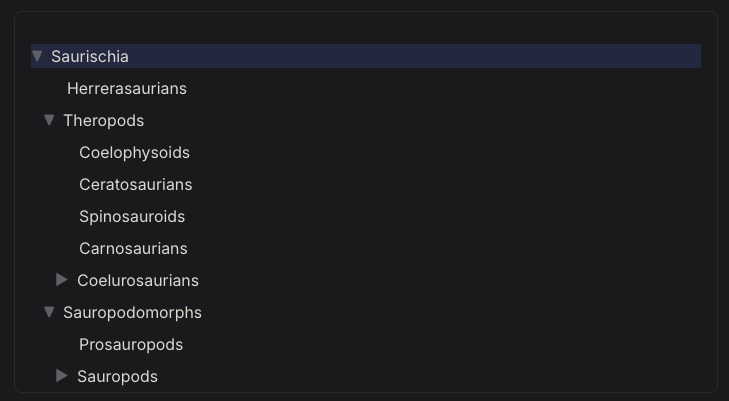
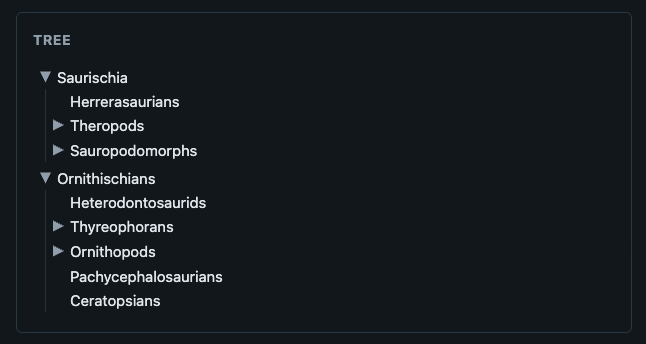
Vertical tree lines (#98)
* Vertical tree lines

* Align correctly for bigger font sizes

* Use --tree-element-toggler-size

* Fix margin between toggler and node text

* Fix test

* Update test screenshots

* Update screenshot

* Add link to example

diff --git a/tree_element.css b/tree_element.css
@@ -2,6 +2,7 @@
   Colors. Override them on :root or on an element around the tree, for example
   for a dark theme. :where keeps the specificity at 0, so any rule wins.
   --tree-element-selected-color defaults to --tree-element-title-color.
+  Set --tree-element-line-color to transparent to hide the tree lines.
 */
 :where(:root) {
   --tree-element-title-color: #1c4257;
@@ -12,6 +13,19 @@
   --tree-element-drop-hint-color: #00f;
   --tree-element-dragging-color: #fff;
   --tree-element-dragging-background: #000;
+  --tree-element-line-color: #d5dbe1;
+}
+
+/*
+  The width of the toggler. The indentation and the tree lines follow it, so
+  the line stays under the center of the toggler. 1.5em is 24px at a 16px
+  font: above that the toggler grows with the font, so the space around the
+  0.8em icon, which separates it from the title, grows along. Set it to the
+  width of a custom icon that is wider. It is resolved where it is used, so em
+  is the font size of the tree.
+*/
+:where(:root) {
+  --tree-element-toggler-size: max(24px, 1.5em);
 }
 
 ul.tree-element {
@@ -27,11 +41,14 @@ ul.tree-element.tree-element-dnd {
 
 ul.tree-element ul.tree-element-common {
     list-style: none outside;
-    margin-left: 12px;
+    margin-left: calc(var(--tree-element-toggler-size) / 2);
     margin-right: 0;
     margin-bottom: 0;
     padding: 0;
     display: block;
+    /* The line down from the toggler of the folder: the indent is half the
+       width of the toggler, so the line is under its center. */
+    border-left: 1px solid var(--tree-element-line-color);
   }
 
 ul.tree-element li.tree-element-closed > ul.tree-element-common {
@@ -52,12 +69,16 @@ ul.tree-element .tree-element-toggler {
     align-items: center;
     justify-content: center;
     box-sizing: border-box;
-    min-width: 24px;
+    min-width: var(--tree-element-toggler-size);
     min-height: 24px;
     border-bottom: none;
     color: var(--tree-element-toggler-color);
     text-decoration: none;
     vertical-align: middle;
+    /* The line under the toggler is 1px wide, so its center is half a pixel
+       after the center of the toggler. Move the toggler along.
+       Margin or padding would be rounded to a whole pixel; translate isn't. */
+    translate: 0.5px;
   }
 
 ul.tree-element .tree-element-toggler:hover {
@@ -105,7 +126,7 @@ ul.tree-element li.tree-element-common:focus-visible
 /* Line up with the titles of folders, after the toggler */
 
 ul.tree-element .tree-element-title-button-left {
-    margin-left: 24px;
+    margin-left: var(--tree-element-toggler-size);
   }
 
 ul.tree-element .tree-element-title-button-left.tree-element-title-folder {
@@ -186,12 +207,18 @@ ul.tree-element.tree-element-rtl {
 
 ul.tree-element.tree-element-rtl ul.tree-element-common {
     margin-left: 0;
-    margin-right: 12px;
+    margin-right: calc(var(--tree-element-toggler-size) / 2);
+    border-left: none;
+    border-right: 1px solid var(--tree-element-line-color);
+  }
+
+ul.tree-element.tree-element-rtl .tree-element-toggler {
+    translate: -0.5px;
   }
 
 ul.tree-element.tree-element-rtl .tree-element-title {
     margin-left: 0;
-    margin-right: 24px;
+    margin-right: var(--tree-element-toggler-size);
   }
 
 ul.tree-element.tree-element-rtl .tree-element-title.tree-element-title-folder {

diff --git a/test/css/defaultColors.test.ts b/test/css/defaultColors.test.ts
@@ -10,17 +10,24 @@ const css = fs.readFileSync(
   "utf8",
 );
 
+// The defaults of all custom properties. The colors and the toggler size are
+// in separate :where(:root) blocks.
 const getDefaultColors = (): Map<string, string> => {
-  const block = /:where\(:root\) \{([^}]*)\}/.exec(css)?.[1];
+  const blocks = Array.from(
+    css.matchAll(/:where\(:root\) \{([^}]*)\}/g),
+    ([, block]) => block as string,
+  );
 
-  if (!block) {
+  if (blocks.length === 0) {
     throw new Error("No :where(:root) block in the stylesheet");
   }
 
   return new Map(
-    Array.from(
-      block.matchAll(/--tree-element-([\w-]+):\s*([^;]+);/g),
-      ([, name, value]) => [name as string, (value as string).trim()],
+    blocks.flatMap((block) =>
+      Array.from(
+        block.matchAll(/--tree-element-([\w-]+):\s*([^;]+);/g),
+        ([, name, value]) => [name as string, (value as string).trim()],
+      ),
     ),
   );
 };

diff --git a/docs/guide/styling.md b/docs/guide/styling.md
@@ -143,6 +143,10 @@ change one tree:
 | `--tree-element-drop-hint-color`      | `#00f`                              | The drop hints while dragging.              |
 | `--tree-element-dragging-color`       | `#fff`                              | The text of the node that is dragged.       |
 | `--tree-element-dragging-background`  | `#000`                              | The background of the node that is dragged. |
+| `--tree-element-line-color`           | `#d5dbe1`                           | The lines from a folder to its children.    |
+
+The tree lines are decoration, so they are light. Set `--tree-element-line-color` to `transparent`
+to hide them.
 
 The defaults meet the WCAG AA contrast minimums on a white page: the title has at least 4.6:1,
 also on the darkest part of the selected row. Check the contrast when you change them.
@@ -159,6 +163,7 @@ theme for a page with a `#121212` background:
     --tree-element-selected-background: #1f3a52;
     --tree-element-selected-text-shadow: none;
     --tree-element-drop-hint-color: #6ea8ff;
+    --tree-element-line-color: #3a4651;
   }
 }
 ```
@@ -170,6 +175,24 @@ For anything that isn't a color, override the rules of the stylesheet. Indentati
 ```css
 ul.tree-element ul.tree-element-common {
   margin-left: 24px;
+}
+```
+
+The tree line is the left border of that list, so it moves along with the margin.
+
+## Toggler size
+
+`--tree-element-toggler-size` is the width of the toggler. The stylesheet derives the rest from it:
+the indentation is half of it, so the tree line is under the center of the toggler, and the titles
+of nodes without children are indented by all of it, so they line up with the titles of folders.
+
+The default is `max(24px, 1.5em)`: 24px, the minimum size for something you click, up to a 16px
+font, then it grows with the font. The space around the icon separates the toggler from the title,
+so it grows along. Set it when your icon is wider:
+
+```css
+.my-tree {
+  --tree-element-toggler-size: 32px;
 }
 ```
 

diff --git a/CHANGELOG.md b/CHANGELOG.md
@@ -9,6 +9,13 @@ All notable changes to tree-element are documented here. The format is based on
 ### Added
 
 - `multiSelect` can be turned on or off with `setOption`.
+- Vertical lines from a folder to its children. Their color is the
+  `--tree-element-line-color` custom property; set it to `transparent` to hide
+  them.
+- The `--tree-element-toggler-size` custom property: the width of the
+  toggler. The indentation and the tree lines follow it. It defaults to
+  `max(24px, 1.5em)`, so the toggler and the indentation grow with a font
+  larger than 16px.
 
 ### Changed
 

diff --git a/README.md b/README.md
@@ -15,6 +15,8 @@ npm package: https://www.npmjs.com/package/tree-element
 
 ![screenshot](https://raw.github.com/mbraak/tree-element/master/screenshot.png)
 
+The screenshot above is from https://mbraak.github.io/tree-element-example/
+
 ## Install
 
 ```sh
